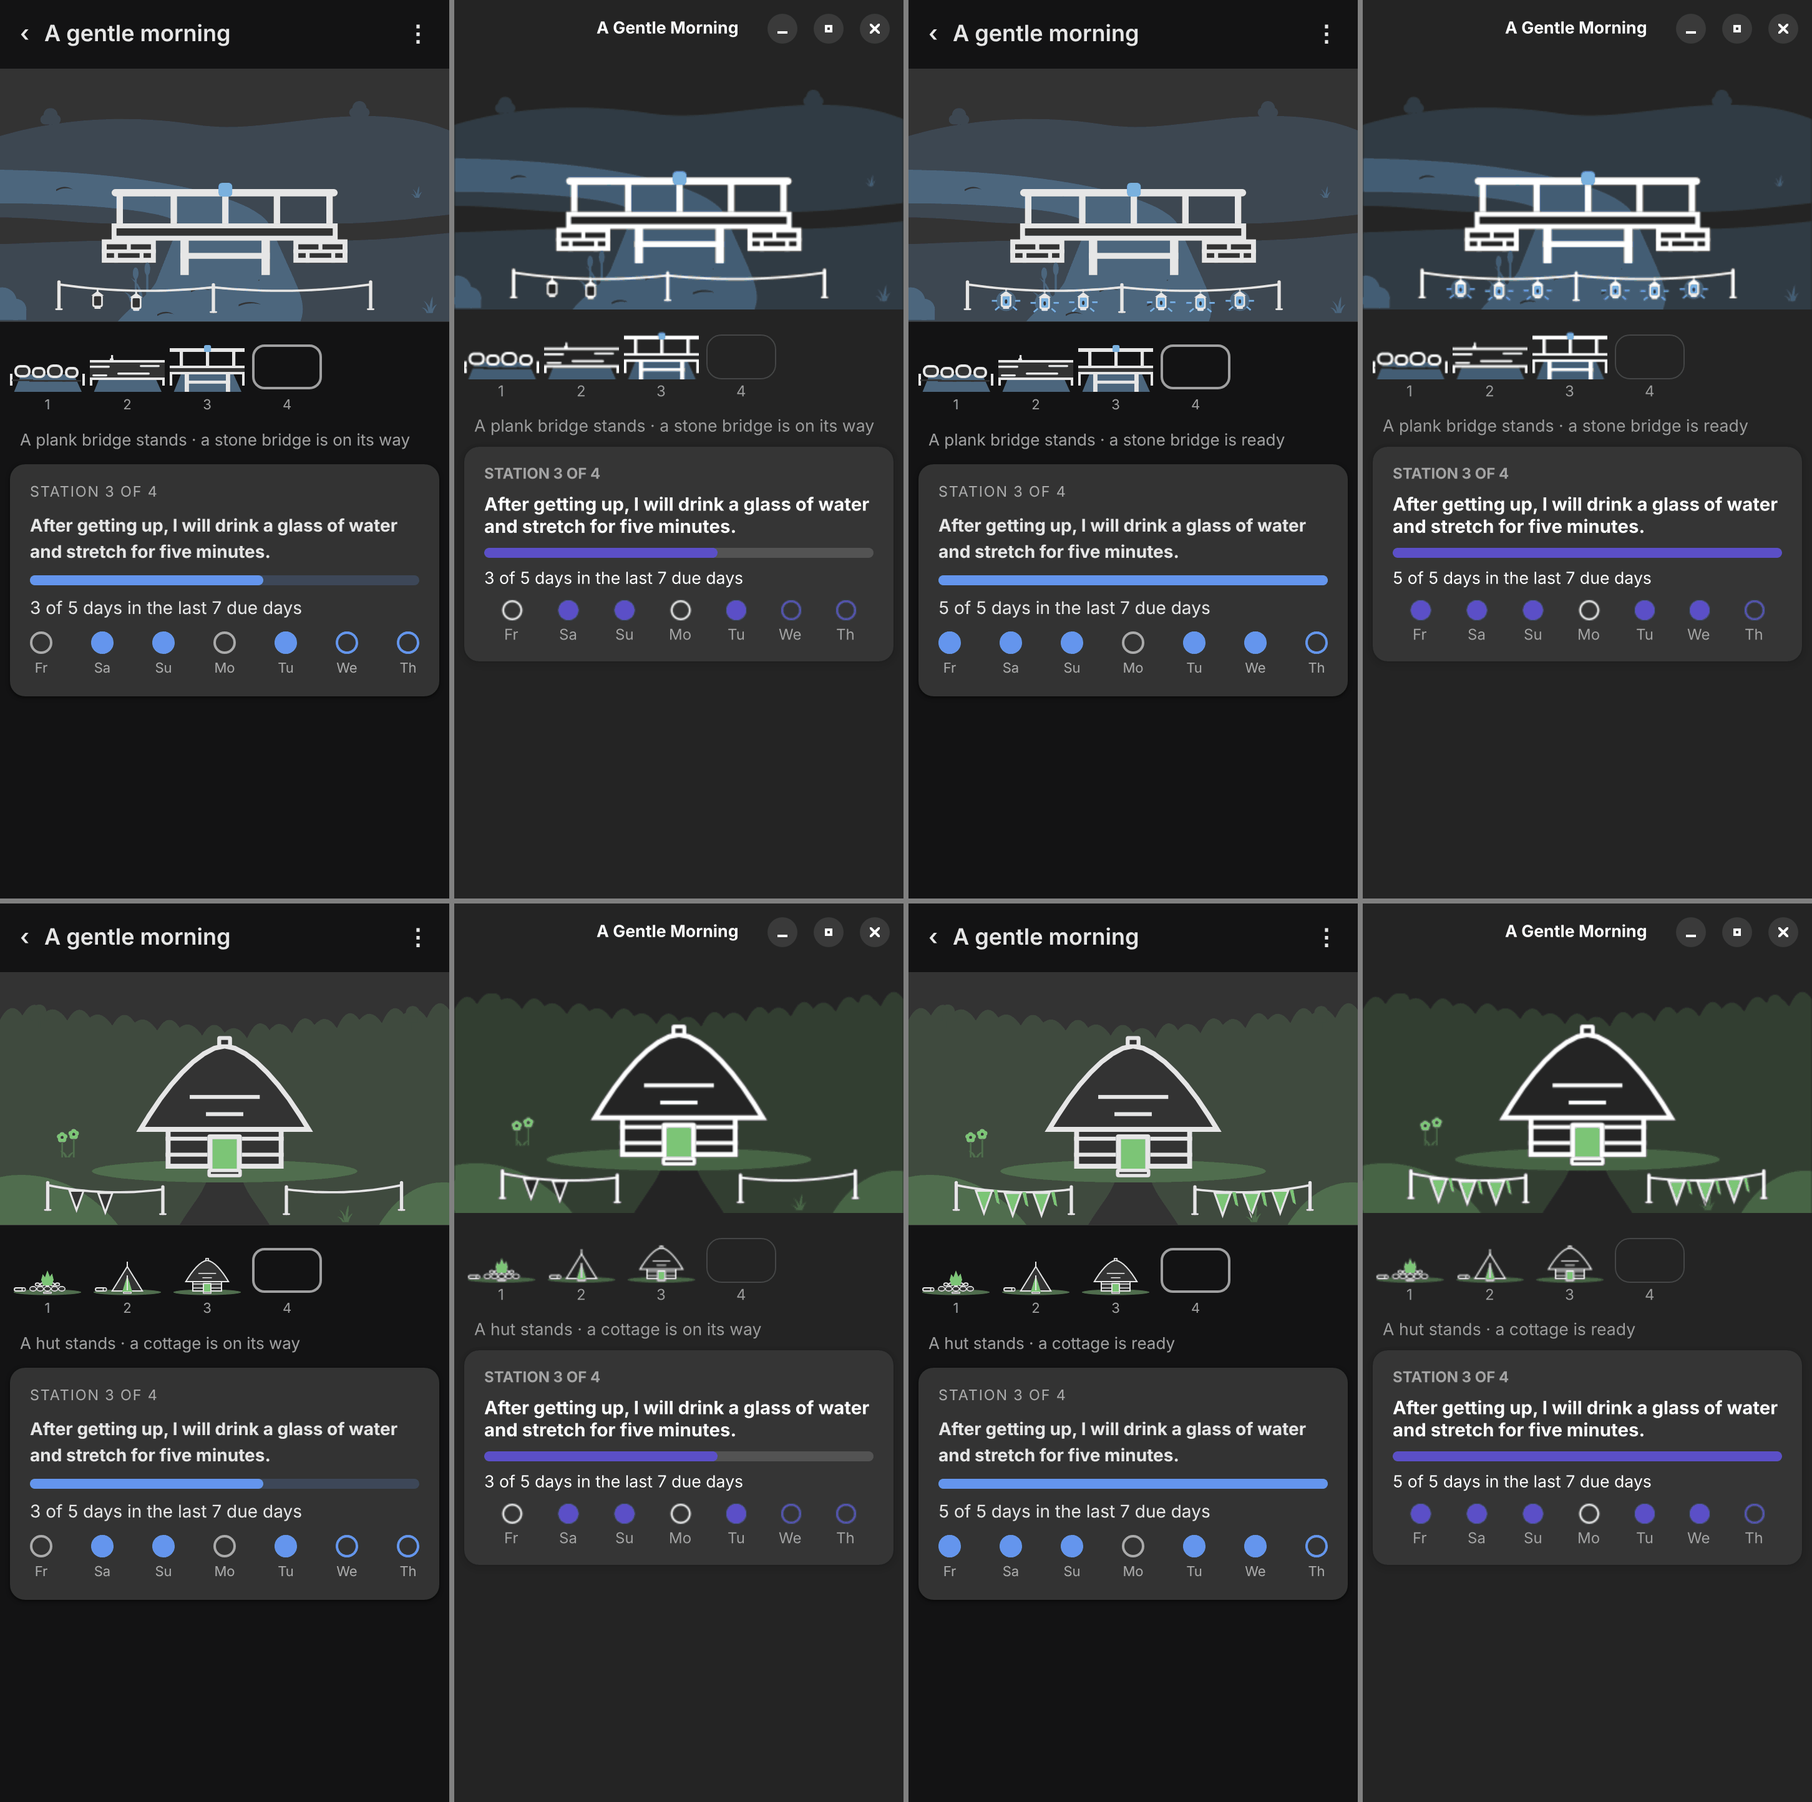
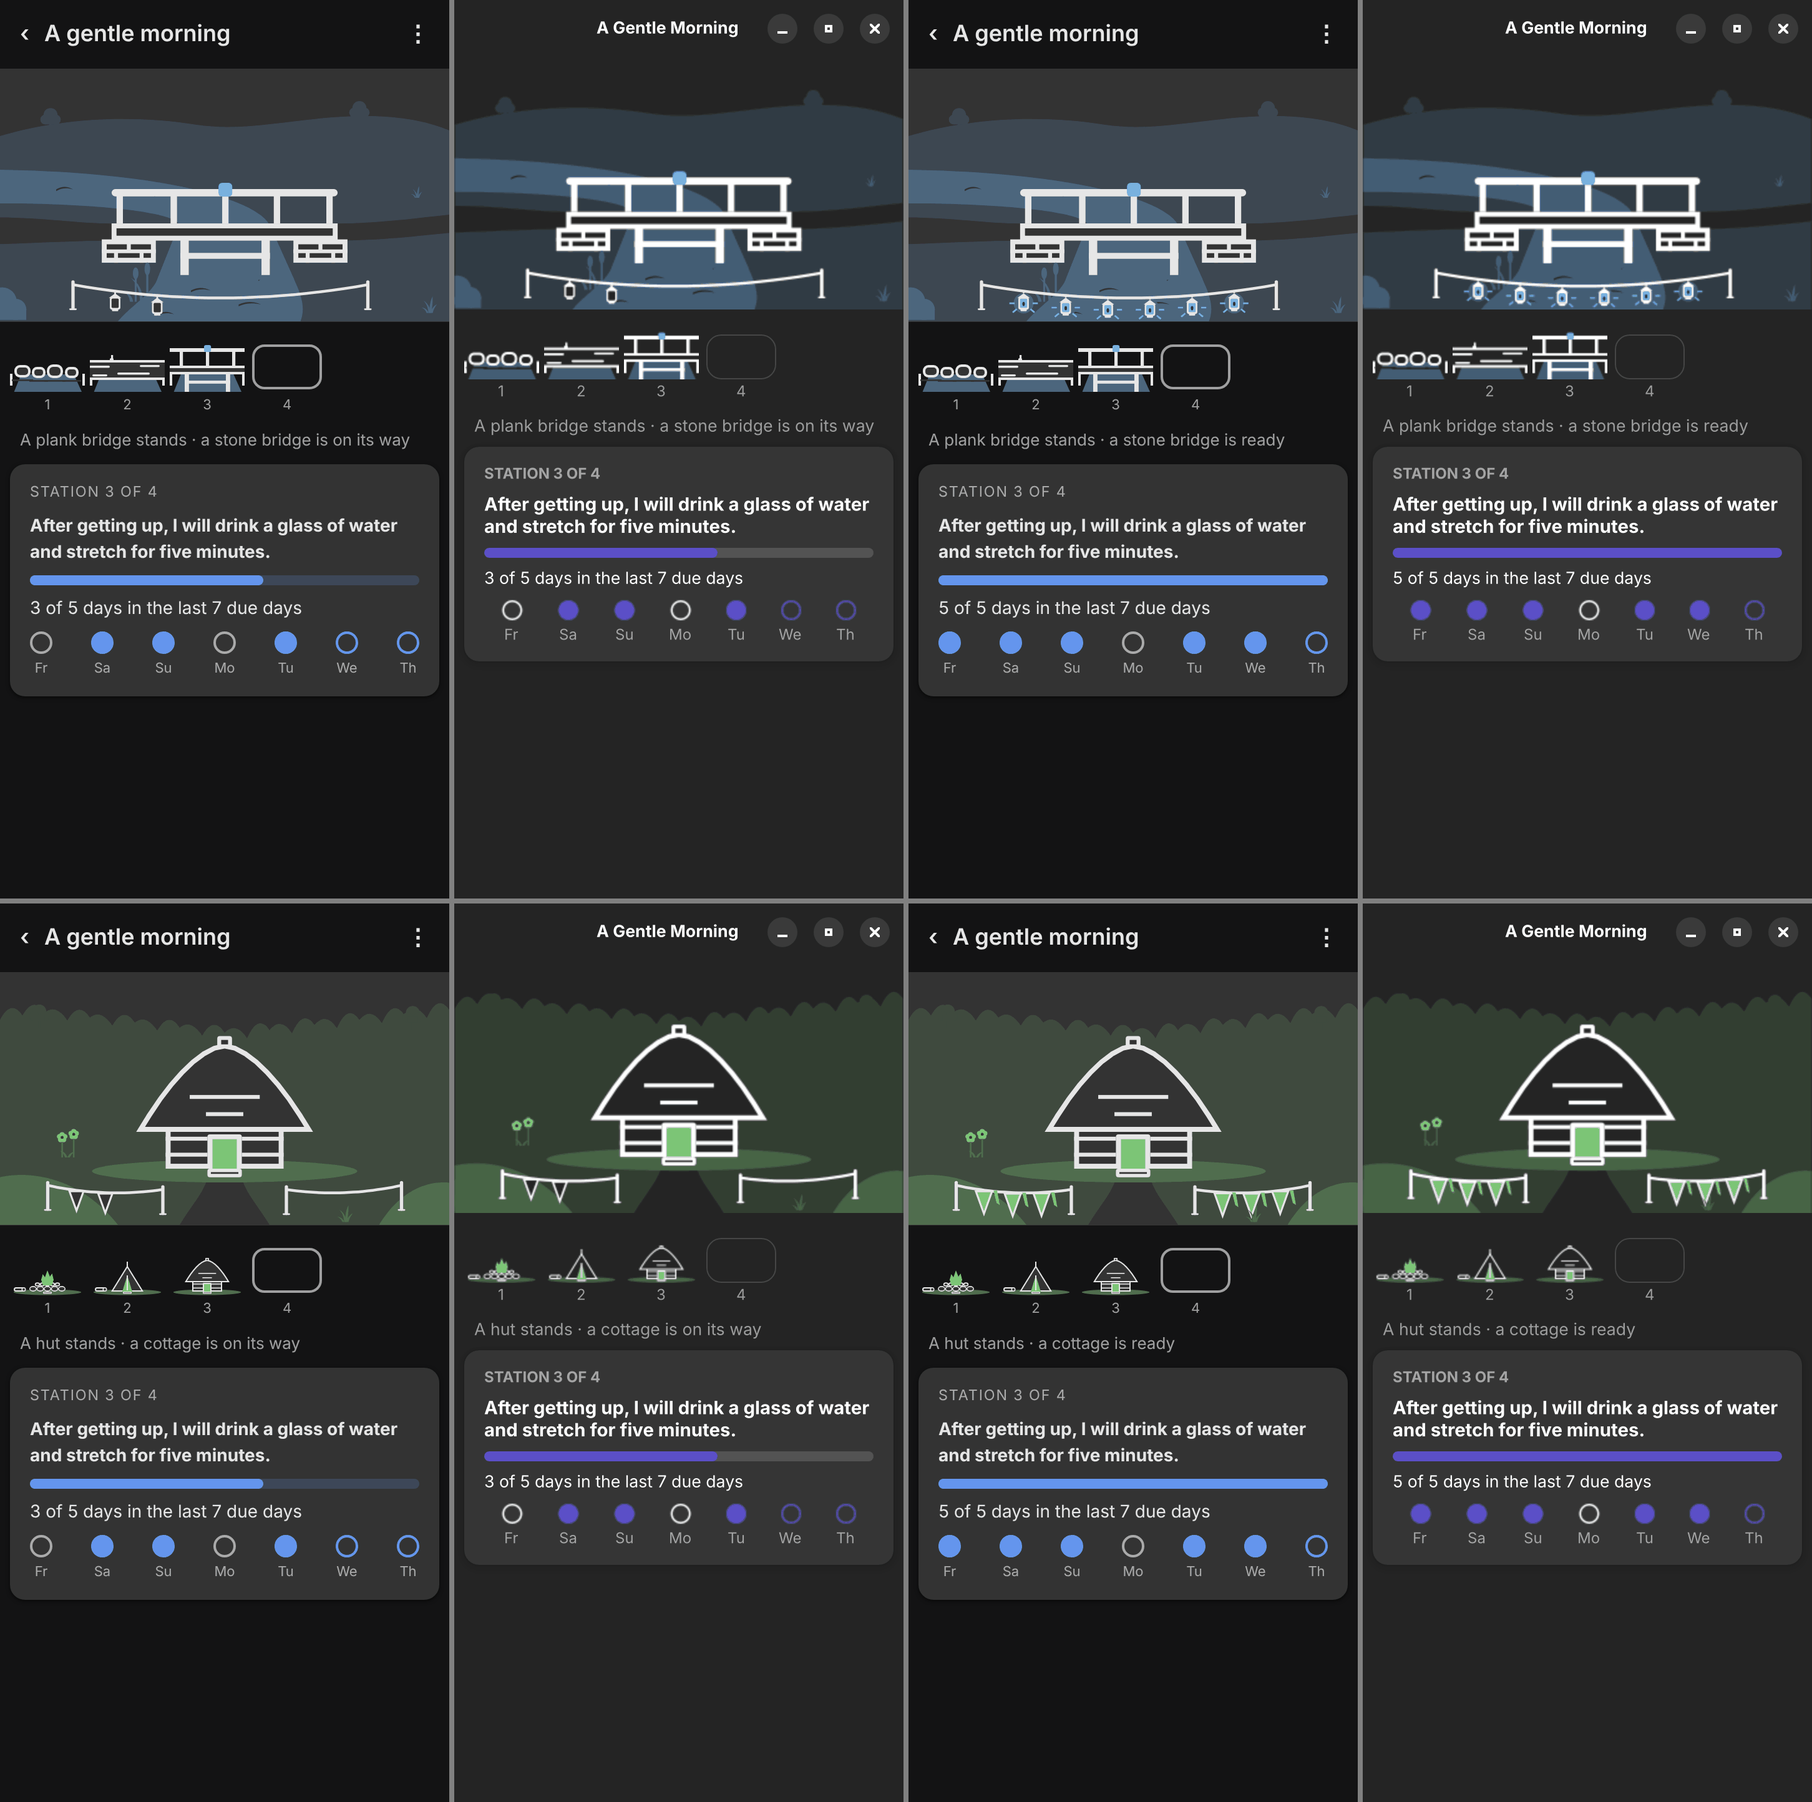
Markers: no post in water; Crossing's line spans the river on two posts
The middle post of the span layout stood in the river. A setting with
water now marks it (waterAreas) and the ladder checker refuses a post
point inside it; span needs at least two posts. Crossing has one post on
each bank's near ground and one line across the water, a little thicker
and sagging by its length (E = 2 + 6). Tests, docs and the Crossing
images re-rendered.

Claude-Session: https://claude.ai/code/session_019PsDp7vsda8k8yVEZVBZni

diff --git a/packages/plugin/test/ladder.test.ts b/packages/plugin/test/ladder.test.ts
@@ -30,24 +30,24 @@ describe('ladderScene', () => {
     expect(scene.title).toBe('A plank bridge stands');
   });
 
-  it('counts the elements: posts, then hanging ones (span 3 + 6, sides 4 + 6)', () => {
-    expect(markerElements(crossing)).toBe(9);
+  it('counts the elements: posts, then hanging ones (span 2 + 6, sides 4 + 6)', () => {
+    expect(markerElements(crossing)).toBe(8);
     expect(markerElements(home)).toBe(10);
     expect(elementsShown(crossing, 0)).toBe(0);
     expect(elementsShown(crossing, 0.01)).toBe(1);
-    expect(elementsShown(crossing, 3 / 9)).toBe(3);
-    expect(elementsShown(crossing, 1)).toBe(9);
+    expect(elementsShown(crossing, 3 / 8)).toBe(3);
+    expect(elementsShown(crossing, 1)).toBe(8);
     // a days stage of 5 and a count stage of 20 fill the same marker
     expect(elementsShown(home, 3 / 5)).toBe(elementsShown(home, 12 / 20));
   });
 
   it('grows element by element: posts first, a line once both its posts stand', () => {
-    expect(marks(3, { progress: 1 / 9 })).toEqual(['marker-lanterns-post']);
-    const two = arts(3, { progress: 2 / 9 });
+    expect(marks(3, { progress: 1 / 8 })).toEqual(['marker-lanterns-post']);
+    const two = arts(3, { progress: 2 / 8 });
     expect(two.filter((a) => a.includes('-post'))).toHaveLength(2);
     expect(two.filter((a) => a.includes('-cord-'))).toHaveLength(1);
-    expect(marks(3, { progress: 3 / 9 })).toHaveLength(3);
-    expect(marks(3, { progress: 5 / 9 }).filter((a) => a.includes('-bead'))).toHaveLength(2);
+    expect(marks(3, { progress: 3 / 8 })).toHaveLength(3);
+    expect(marks(3, { progress: 4 / 8 }).filter((a) => a.includes('-bead'))).toHaveLength(2);
     expect(ladderScene(crossing, 3, { progress: 0.5 }).title).toBe(
       'A plank bridge stands, a stone bridge is on its way',
     );
@@ -60,9 +60,9 @@ describe('ladderScene', () => {
 
   it('shows every hanging element in its on form when ready, the posts plain', () => {
     const on = marks(3, { ready: true, progress: 0.5 });
-    expect(on).toHaveLength(9);
+    expect(on).toHaveLength(8);
     expect(on.filter((a) => a.endsWith('-bead-lit'))).toHaveLength(6);
-    expect(on.filter((a) => a === 'marker-lanterns-post')).toHaveLength(3);
+    expect(on.filter((a) => a === 'marker-lanterns-post')).toHaveLength(2);
     expect(ladderScene(crossing, 3, { ready: true }).title).toBe(
       'A plank bridge stands, a stone bridge is ready',
     );

diff --git a/packages/engine/src/art-ladder-check.ts b/packages/engine/src/art-ladder-check.ts
@@ -93,6 +93,16 @@ const points = (value: unknown): Point[] | undefined => {
   return out.every((p) => p !== undefined) ? (out as Point[]) : undefined;
 };
 
+/** Whether (x, y) lies inside the polygon (even-odd rule). */
+const inside = (poly: readonly (readonly number[])[], x: number, y: number): boolean => {
+  let result = false;
+  poly.forEach(([x1 = 0, y1 = 0], i) => {
+    const [x2 = 0, y2 = 0] = poly[(i + 1) % poly.length] ?? [];
+    if (y1 > y !== y2 > y && x < ((x2 - x1) * (y - y1)) / (y2 - y1) + x1) result = !result;
+  });
+  return result;
+};
+
 /**
  * Problems of a ladder file: `names` are the pictures in content/art/,
  * `hues` the names in palette.json, `markers` markers.json; with `sources`
@@ -279,6 +289,25 @@ export const ladderProblems = (
     })
   )
     error('posts', 'post points [x, y] in the near band, left to right (sides: four)');
+  // No post stands in water: a setting with water marks it (`waterAreas`,
+  // polygons in setting units) and no post point lies inside one.
+  const areas = Array.isArray(ladder.waterAreas) ? (ladder.waterAreas as unknown[]) : [];
+  const polygons = areas.map((area) =>
+    Array.isArray(area)
+      ? (area as unknown[]).map((pt) =>
+          Array.isArray(pt) && pt.length === 2 ? [num(pt[0]), num(pt[1])] : [NaN, NaN],
+        )
+      : [],
+  );
+  if (
+    (ladder.water === true && polygons.length === 0) ||
+    polygons.some((poly) => poly.length < 3 || poly.flat().some(Number.isNaN))
+  )
+    error('waterAreas', 'a setting with water marks it: polygons of [x, y] points');
+  postPoints.forEach(([px = NaN, py = NaN], k) => {
+    if (polygons.some((poly) => inside(poly, px, py)))
+      error('posts', `post point ${k + 1} (${px}, ${py}) stands in water`);
+  });
   const parts = (part: string) =>
     markerParts.filter((m) => m.part === part).sort((a, b) => a.order - b.order);
   const posts = parts('post');

diff --git a/packages/engine/test/art-ladder-check.test.ts b/packages/engine/test/art-ladder-check.test.ts
@@ -27,6 +27,15 @@ const ladder = {
   width: 320,
   height: 180,
   water: true,
+  // the river, where no post may stand
+  waterAreas: [
+    [
+      [100, 60],
+      [200, 60],
+      [200, 180],
+      [100, 180],
+    ],
+  ],
   marker: 'lanterns',
   // the walking surface meets the path at x = 14 and x = 106, y 57–64
   ways: [
@@ -201,6 +210,30 @@ describe('ladderProblems', () => {
       }),
     ).toContain('posts');
     expect(at(withPicture(6, { x: 80 }))).toEqual(['pictures[6]']);
+  });
+
+  it('wants no post in water: a setting with water marks it', () => {
+    const river = [
+      [
+        [100, 60],
+        [200, 60],
+        [200, 180],
+        [100, 180],
+      ],
+    ];
+    expect(at({ ...ladder, waterAreas: river })).toEqual([]);
+    expect(at({ ...ladder, waterAreas: undefined })).toEqual(['waterAreas']);
+    expect(at({ ...ladder, water: false, waterAreas: undefined })).toEqual([]);
+    expect(at({ ...ladder, waterAreas: [[[1, 2]]] })).toEqual(['waterAreas']);
+    const wet = [
+      [
+        [20, 160],
+        [40, 160],
+        [40, 180],
+        [20, 180],
+      ],
+    ];
+    expect(at({ ...ladder, waterAreas: wet })).toEqual(['posts']);
   });
 
   it('wants every hanging element under a line, below the build', () => {

diff --git a/docs/log.md b/docs/log.md
@@ -2,6 +2,7 @@
 
 ## 2026-11-12
 
+- **Fix** (#42): no marker post stands in water. Crossing's `span` has two posts, one on each bank's near ground, and one line across the water (thicker, sagging by its length), so E = 2 + 6; a setting with water marks it (`waterAreas`) and the ladder checker refuses a post point inside it (test); `span` needs at least two posts. Images re-rendered ([journey design](journey-design.md#builds-and-ladders-the-valley-42)).
 - **Update** (#42): markers replace the scaffold. The owner found a permanent building site over a thing that is whole wrong; after two drafts that could not be read in order (a ring of posts around the build, fixed phases), the decided form: a small festive marker in the foreground that grows one element at a time, plain posts first, then the hanging elements (lanterns, pennants or flowers, the user's choice, flowers only on land), the first ceil(p × E) for the stage's best progress p; ready turns the hanging elements "on" in shape (rays, a second tail, open blossoms); posts carry nothing on top. Layouts `span` (Crossing) and `sides` (Home, a gap where the way passes). `build-scaffold.svg`, its slot and the flag slot are gone; `markers.json`, `marker-<kind>-post|bead|bead-lit.svg` and the settings' lines are new, generated by `scripts/draw-ladders.mjs`; the ladder checker checks layout, posts, lines, order, flowers not on water and that nothing covers a way point (tests). Also redrawn: stepping stones and the log with mass, stone abutments at both way points, hut (round thatch), cottage and house as a progression in form, the fireplace as single stones; the row of versions may zoom (`row`). Images and review rounds in [journey design](journey-design.md#builds-and-ladders-the-valley-42).
 - **Creation** (#42): the first two ladders, Crossing (stepping stones, log, plank bridge, stone bridge, covered bridge over a river) and Home (fireplace, tent, hut, cottage, house in a clearing), each version whole in the same slot of the same setting; a scaffold with a ready flag instead of a material pile (owner: states, never counts; a falling `days` count would shrink a pile); fixed way points where the path meets each crossing and the threshold of each home, checked on the files; water runs edge to edge; a palette of eight hues with computed contrast tests. Generator `scripts/draw-ladders.mjs`, checkers `art-ladder-check.ts`, `art-palette.ts`, `art-vertices.ts`, plugin `src/ui/ladder.ts` and hue support, preview parts `sequence-<ladder>`, `journey-<ladder>`, `palette`. Section "Builds and ladders" in [journey design](journey-design.md#builds-and-ladders-the-valley-42) (the region scenes marked superseded), [decision](decisions/shared-pictures.md) and [development](development.md) updated; four review rounds and the final images `docs/screenshots/ladder-*.png`.
 - **Update** (#97): art direction for a region of the Valley. Three new colour roles `bg`, `tint` and `tint-strong` (opaque in both hosts; checker, plugin CSS, Day Planner); built things outlined with a `bg` fill, growth solid `tint-strong`. Scene rules in [journey design](journey-design.md#scenes-of-a-region-for-the-valley-42): three depth bands with fixed sizes, the far band one silhouette in `tint`, the path a ribbon in the ground paved with stones, where landmarks, keeper, growth, pennant and lantern stand, at most a fifth of sky, smallest sizes. Scenes get a `band` per picture, checked by the new `art-scene-check.ts`. Redrawn: well, house, bench, open gate, lantern, pennant, tree, flowers, hedgehog, meadow; new: bush, tuft, stone, reeds, boat, lighthouse, shore. Scenes `meadow-started`, `meadow-half`, `meadow-finished`, `shore-finished` replace `spike-region`; preview parts `growth`, `shore`, `sizes`. Five review rounds and the final images in `docs/screenshots/valley-*.png`; [decision](decisions/shared-pictures.md) and [development](development.md) updated.

diff --git a/docs/journey-design.md b/docs/journey-design.md
@@ -129,7 +129,7 @@ versions below it, the state in words, the card unchanged.
 **Files.** A ladder is `content/art/<ladder>.ladder.json` with its title,
 the default hue, whether its setting is water (`water`), its default
 marker kind (`marker`), the marker's layout and post points (`layout`,
-`posts`), the versions (`build-<ladder>-<n>.svg`, each with a
+`posts`), where its setting has water (`waterAreas`), the versions (`build-<ladder>-<n>.svg`, each with a
 title), optionally the part of every version the row of versions shows
 (`row`), the way points (`ways`) and the setting with its places,
 including the marker's; the setting is `setting-<kind>.svg`. Checked by
@@ -238,10 +238,11 @@ form.
 an ordered list of post points in the near band, as it declares where the
 path meets the build:
 
-- `span`: one continuous line over all posts (three: left, middle,
-  right). For a setting where the line can run in front of the build
-  without crossing the way or the view: Crossing, along the near edge in
-  front of the bridge over the river.
+- `span`: one continuous line over all posts (at least two). For a
+  setting where the line can run in front of the build without crossing
+  the way or the view: Crossing, two posts on the near ground of each
+  bank and one line across the water in front of the bridge, sagging
+  gently.
 - `sides`: two short lines, left and right, with a gap in the middle
   (four posts, two on each side). For a way leading to the build (Home:
   the path to the door) or a build on water (a boat: the gap is the
@@ -249,10 +250,15 @@ path meets the build:
 - **Choosing**: the gap is wherever the user's way or view to the build
   passes. If nothing passes in front of the build, `span`; otherwise
   `sides` with the gap there.
+- **No post stands in water.** A setting with water marks it
+  (`waterAreas`, polygons in setting units, in the ladder file); a post
+  point inside one is refused. A line may cross water; a long line is
+  drawn a little thicker and sags more (by its length), it never gets an
+  extra post.
 
 The lines are pictures of the setting (`setting-<kind>-cord-<n>.svg`, the
 same for every kind); the hanging elements sit at fixed points along
-them, spread evenly, in order from the first post (Crossing 3 posts and 6
+them, spread evenly, in order from the first post (Crossing 2 posts and 6
 elements, Home 4 posts and 6 elements). All numbers come from
 `MARKER_LAYOUTS` in `scripts/draw-ladders.mjs`. Every marker place in the
 ladder file has its `order` (1 … E); a line has the order of its second
@@ -260,8 +266,8 @@ post.
 
 The checker (`ladderProblems`, `markerProblems`) requires: a known marker
 kind with its three pictures and a title; flowers not on water; a layout
-of `span` or `sides` (four post points); post points in the near band,
-left to right; one post on each point, in order, tied on below the
+of `span` (at least two post points) or `sides` (four); post points in
+the near band, left to right, none in a marked water area; one post on each point, in order, tied on below the
 build's base line; one line per pair of neighbours (`sides`: none across
 the gap), each shown with its second post; at least two hanging elements
 after the posts, in order, each under a line and below the build; nothing
@@ -321,7 +327,7 @@ element by element, `span` and `sides`: the posts looked like
 stanchions, and the scenery flowers read as a hanging element;
 [m5](screenshots/ladder-markers-round-5.png) slimmer posts, larger
 elements; then the owner asked for plain posts with nothing on top and
-ready only on the hanging elements: the final images above.
+ready only on the hanging elements; [m6](screenshots/ladder-markers-round-6.png) plain posts, but the `span` middle post stood in the water: now two posts, one on each bank, and one line across: the final images above.
 
 ## Scenes of a region (for the Valley, #42)
 

diff --git a/docs/decisions/shared-pictures.md b/docs/decisions/shared-pictures.md
@@ -120,7 +120,8 @@ For the files:
 
 - `content/art/<ladder>.ladder.json`: title, default hue, `water`,
   default `marker` kind, the marker's `layout` (`span` or `sides`) and
-  `posts`, `versions` (`build-…` pictures with titles), optional `row`,
+  `posts`, `waterAreas` where the setting has water (no post stands
+  there), `versions` (`build-…` pictures with titles), optional `row`,
   `ways` (way points in build units) and `pictures` (the setting first,
   then pictures, the slots `build`, `lantern`, `keeper`, and the `marker`
   places with their `order`). Generated by `scripts/draw-ladders.mjs`
